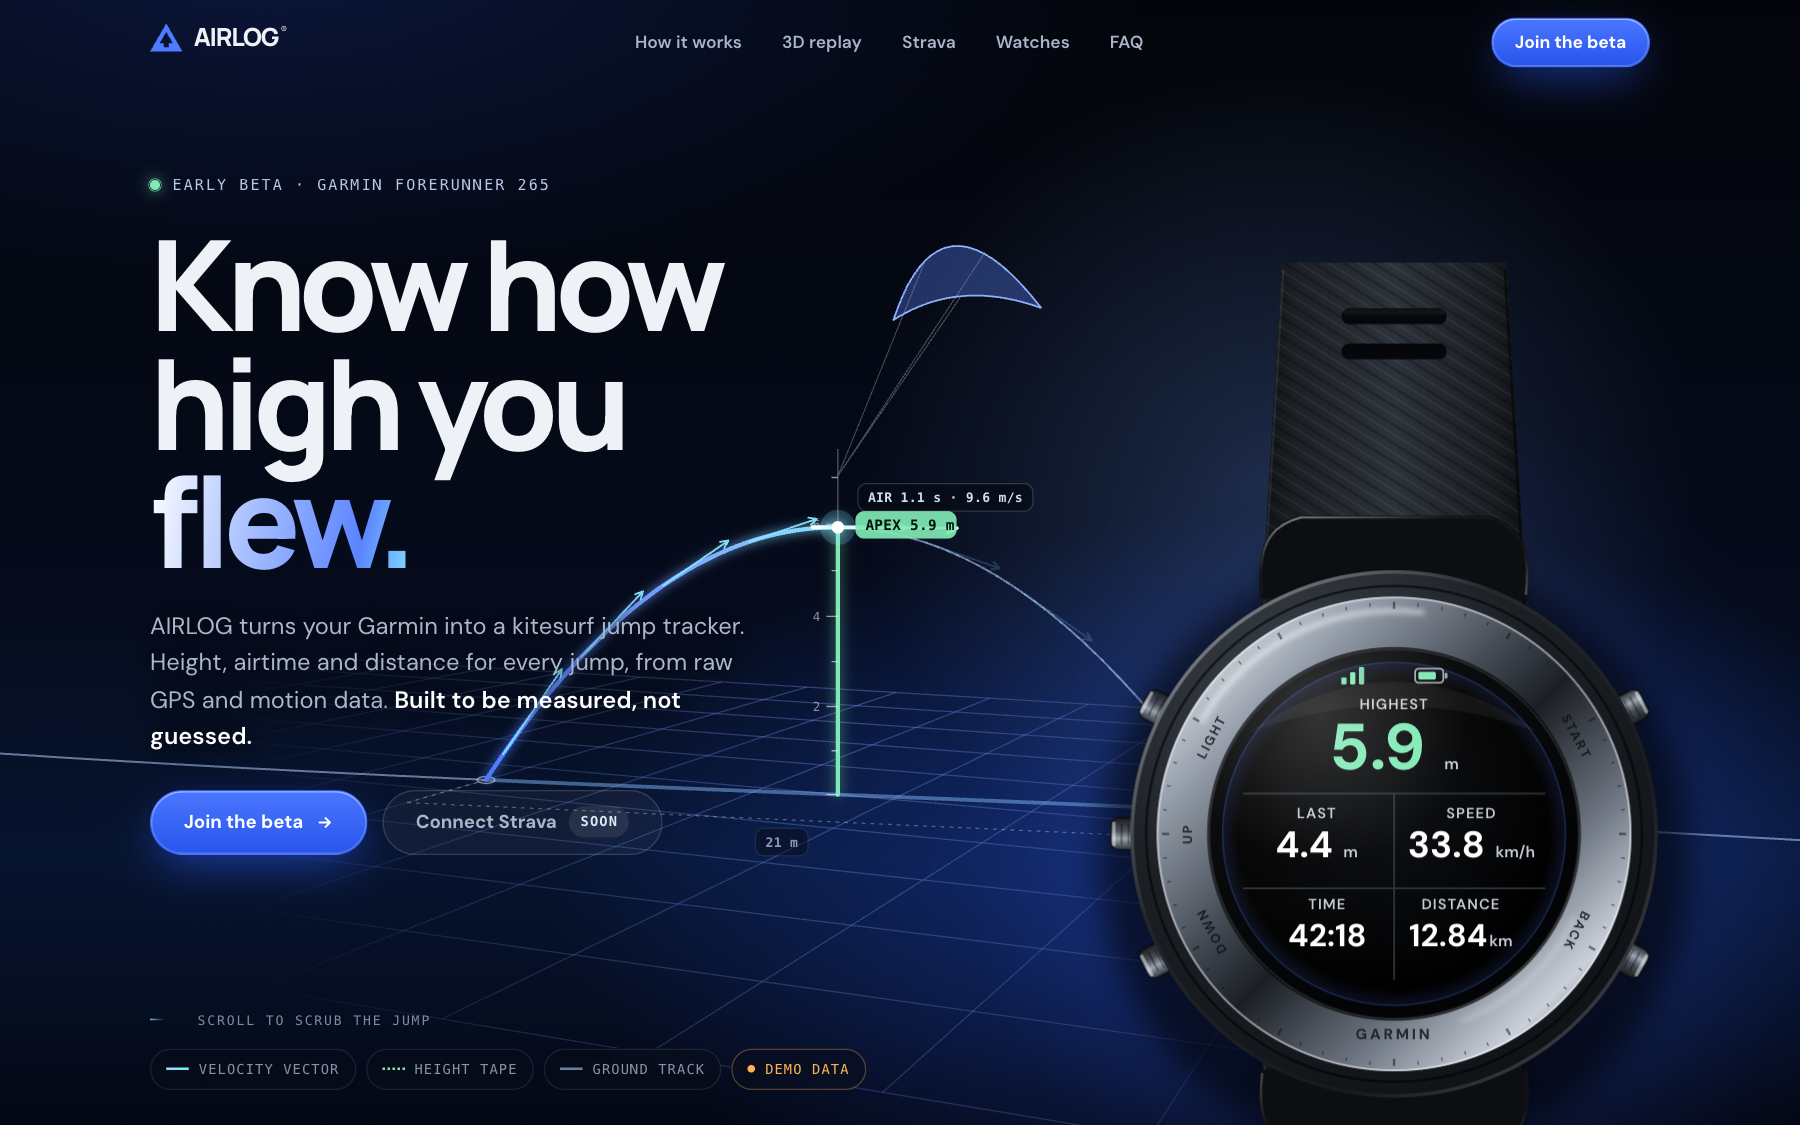
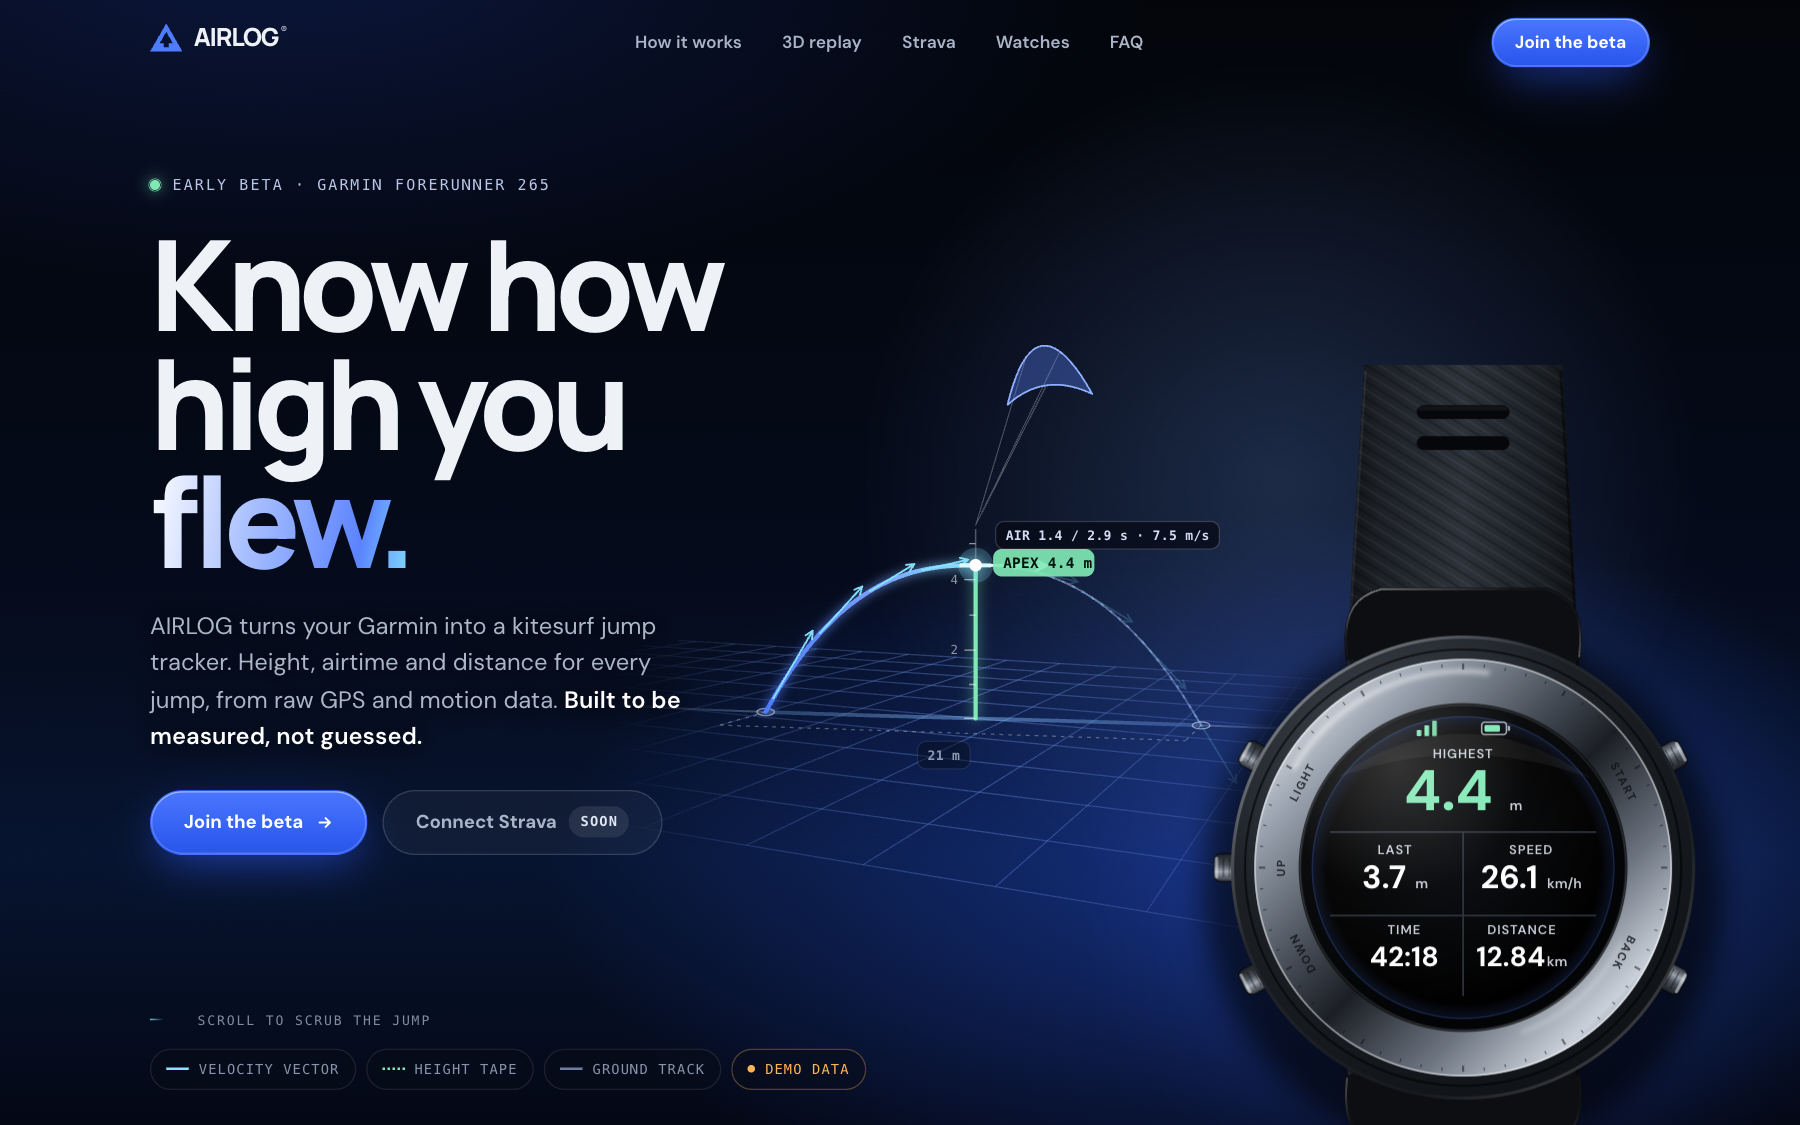
Trademark, consistent demo data, hero layout, honest FAQ, og.jpg

Changed region(s): [[0.0622, 0.2178, 0.9644, 1.0], [0.4978, 0.2178, 0.5911, 0.28], [0.56, 0.3111, 0.6222, 0.3733]]

diff --git a/src/scripts/jump-scene.ts b/src/scripts/jump-scene.ts
@@ -6,13 +6,14 @@
  *  - kamera: yaw/pitch + perspektywa, siatka wody, ślad na wodzie, łuk (duch + podświetlony),
  *  - wektory prędkości wzdłuż łuku, linka miernicza (taśma) z wysokością, latawiec w 3D,
  *  - render tylko gdy „brudny” i aktywny (IntersectionObserver po stronie wywołującego).
- * Dane to demo: T = 2.2 s, vx = 9.4 m/s → apex ≈ 5.9 m, dystans ≈ 21 m.
+ * Dane to demo (jedna sesja): AIR 2.9 s, apex 4.4 m, dystans 21 m. Skok kitesurfingowy NIE jest balistyczny
+ * (latawiec nosi), więc profil to spłaszczona „czapa”: h(t) = H·(1 − |1 − 2t/T|^k), k = 2.4;
+ * przyspieszenie pionowe liczone analitycznie z tego profilu.
  */
 
-export const G = 9.81;
-export const JUMP = { T: 2.2, vx: 9.4, zAmp: 7 };
-export const APEX_H = (G * JUMP.T * JUMP.T) / 8;
-export const DIST = JUMP.vx * JUMP.T;
+export const APEX_H = 4.4;
+export const DIST = 21;
+export const JUMP = { T: 2.9, vx: DIST / 2.9, zAmp: 7, k: 2.4 };
 
 const NS = 'http://www.w3.org/2000/svg';
 const T0 = -1.9; // początek podejścia (s)
@@ -45,16 +46,24 @@ export interface SceneOptions {
   onFrame?: (f: Frame) => void;
 }
 
+const inAir = (t: number) => t >= 0 && t <= JUMP.T;
 const pos = (t: number): V3 => {
-  const { T, vx, zAmp } = JUMP;
-  const y = t >= 0 && t <= T ? (G * t * (T - t)) / 2 : 0;
+  const { T, vx, zAmp, k } = JUMP;
+  const y = inAir(t) ? APEX_H * (1 - Math.pow(Math.abs(1 - (2 * t) / T), k)) : 0;
   return [vx * t, y, -zAmp * Math.tanh((t - T / 2) * 0.3)];
 };
 const vel = (t: number): V3 => {
-  const { T, vx, zAmp } = JUMP;
-  const vy = t >= 0 && t <= T ? G * (T / 2 - t) : 0;
+  const { T, vx, zAmp, k } = JUMP;
+  const x = 1 - (2 * t) / T;
+  const vy = inAir(t) ? ((APEX_H * 2 * k) / T) * Math.pow(Math.abs(x), k - 1) * Math.sign(x) : 0;
   const c = Math.cosh((t - T / 2) * 0.3);
   return [vx, vy, (-zAmp * 0.3) / (c * c)];
+};
+/** przyspieszenie pionowe (m/s²) z profilu wysokości */
+const accY = (t: number): number => {
+  const { T, k } = JUMP;
+  if (!inAir(t)) return 0;
+  return -((APEX_H * 4 * k * (k - 1)) / (T * T)) * Math.pow(Math.abs(1 - (2 * t) / T), k - 2);
 };
 
 const f1 = (n: number) => (Math.round(n * 10) / 10).toString();
@@ -80,6 +89,8 @@ export interface SceneState {
 
 export interface JumpScene {
   resize(): void;
+  /** przelicza dopasowanie (np. po załadowaniu fontów zmieniających układ tekstu) */
+  refit(): void;
   render(): void;
   set(next: Partial<SceneState>): void;
   get(): SceneState;
@@ -88,7 +99,7 @@ export interface JumpScene {
 
 export function createJumpScene(opts: SceneOptions): JumpScene {
   const { svg } = opts;
-  const yExag = opts.yExag ?? 1.25;
+  const yExag = opts.yExag ?? 1.7;
   const D = 46; // odległość kamery (m) – im mniej, tym mocniejsza perspektywa
   const cx0 = (JUMP.vx * JUMP.T) / 2;
 
@@ -120,8 +131,8 @@ export function createJumpScene(opts: SceneOptions): JumpScene {
   const gGrid = mk('g', { class: 'js-grid', mask: `url(#${uid}-mask)` }, svg);
   const gridX = mk('path', { class: 'js-gridline' }, gGrid);
   const gridZ = mk('path', { class: 'js-gridline' }, gGrid);
-  const wake = mk('path', { class: 'js-wake', pathLength: 1 }, svg);
-  const wakeAir = mk('path', { class: 'js-wake-air' }, svg);
+  const wake = mk('path', { class: 'js-wake', pathLength: 1 }, gGrid);
+  const wakeAir = mk('path', { class: 'js-wake-air' }, gGrid);
   const gMarks = mk('g', { class: 'js-marks' }, svg);
   const takeoffRing = mk('ellipse', { class: 'js-ring' }, gMarks);
   const landRing = mk('ellipse', { class: 'js-ring' }, gMarks);
@@ -153,7 +164,7 @@ export function createJumpScene(opts: SceneOptions): JumpScene {
   const tapeBase = mk('path', { class: 'js-tape-base' }, gTape);
   const tapeFill = mk('path', { class: 'js-tape-fill' }, gTape);
   const tapeTicks = mk('path', { class: 'js-tape-ticks' }, gTape);
-  const tapeNums: SVGTextElement[] = [2, 4, 6].map(() => mk('text', { class: 'js-tape-num' }, gTape));
+  const tapeNums: SVGTextElement[] = [2, 4].map(() => mk('text', { class: 'js-tape-num' }, gTape));
   const peak = mk('path', { class: 'js-peak' }, gTape);
   const gauge = mk('path', { class: 'js-gauge' }, gTape);
 
@@ -273,7 +284,7 @@ export function createJumpScene(opts: SceneOptions): JumpScene {
   for (let i = 0; i <= 120; i++) wakePts.push(pos(T0 + ((T1 - T0) * i) / 120));
   const wakeAirPts: V3[] = airPts.map((p) => [p[0], 0, p[2]] as V3);
   const vecT = Array.from({ length: vecs.length }, (_, i) => 0.06 + (JUMP.T - 0.12) * (i / (vecs.length - 1)));
-  const tapeTop = 7.6;
+  const tapeTop = 5.4;
 
   const render = () => {
     raf = 0;
@@ -318,7 +329,7 @@ export function createJumpScene(opts: SceneOptions): JumpScene {
       const lit = t >= ti - 0.02;
       const pi = pos(ti);
       const vi = vel(ti);
-      vecs[i].setAttribute('d', arrow(pi, add(pi, vi, 0.2)));
+      vecs[i].setAttribute('d', arrow(pi, add(pi, vi, 0.3)));
       vecs[i].classList.toggle('is-lit', lit);
     }
 
@@ -328,17 +339,20 @@ export function createJumpScene(opts: SceneOptions): JumpScene {
     dot.setAttribute('cy', py.toFixed(1));
     halo.setAttribute('cx', px.toFixed(1));
     halo.setAttribute('cy', py.toFixed(1));
-    live.setAttribute('d', arrow(p, add(p, v, 0.34), 9));
+    live.setAttribute('d', arrow(p, add(p, v, 0.45), 9));
     // deska: odcinek 1.3 m wzdłuż wektora prędkości
     const vn = Math.hypot(v[0], v[1], v[2]) || 1;
     const bdir: V3 = [(v[0] / vn) * 0.7, (v[1] / vn) * 0.7, (v[2] / vn) * 0.7];
     board.setAttribute('d', path([add(p, bdir, -1), add(p, bdir, 1)]));
     if (accel) {
-      const [ax, ay] = P(add(p, [0, -G * 0.3, 0]));
-      accel.setAttribute('d', arrow(p, add(p, [0, -G * 0.3, 0]), 8));
-      setLabel('acc', 'a −9.81 m/s²', ax + 10, ay + 4);
-      accel.style.opacity = t > 0 && t < T ? '1' : '0';
-      labels.acc.style.opacity = t > 0 && t < T ? '1' : '0';
+      const a = accY(t);
+      const tip = add(p, [0, a * 0.4, 0]);
+      const [ax, ay] = P(tip);
+      accel.setAttribute('d', arrow(p, tip, 8));
+      setLabel('acc', `a ${a.toFixed(1).replace('-', '−')} m/s²`, ax + 10, ay + 4);
+      const showA = t > 0 && t < T && Math.abs(a) > 0.5 ? '1' : '0';
+      accel.style.opacity = showA;
+      labels.acc.style.opacity = showA;
     }
 
     /* taśma mierznicza (przy apexie) */
@@ -348,7 +362,7 @@ export function createJumpScene(opts: SceneOptions): JumpScene {
     const hh = Math.min(h, tapeTop);
     tapeFill.setAttribute('d', path([foot, [cx0, hh, 0]]));
     let ticks = '';
-    for (let m = 0; m <= 7; m++) {
+    for (let m = 0; m <= 5; m++) {
       const a = P([cx0, m, 0]);
       const len = m % 2 === 0 ? 9 : 5;
       ticks += `M${a[0].toFixed(1)} ${a[1].toFixed(1)}h${-len}`;
@@ -373,8 +387,8 @@ export function createJumpScene(opts: SceneOptions): JumpScene {
     setLabel('h', `${atApex ? 'APEX ' : ''}${f1(h)} m`, gp[0] + 14, gp[1] + (atApex ? -2 : 0));
     labels.h.classList.toggle('is-apex', atApex);
     const air = Math.min(Math.max(t, 0), T);
-    if (W < 600) setLabel('read', `AIR ${air.toFixed(1)} s`, px - 14, py - 26, 'end');
-    else setLabel('read', `AIR ${air.toFixed(1)} s · ${f1(vn)} m/s`, px + 16, py - 24);
+    if (W < 600) setLabel('read', `AIR ${air.toFixed(1)} / ${T.toFixed(1)} s`, px - 14, py - 26, 'end');
+    else setLabel('read', `AIR ${air.toFixed(1)} / ${T.toFixed(1)} s · ${f1(vn)} m/s`, px + 16, py - 24);
     labels.read.style.opacity = '1';
 
     if (opts.annotate) {
@@ -436,6 +450,9 @@ export function createJumpScene(opts: SceneOptions): JumpScene {
     svg.setAttribute('viewBox', `0 0 ${W} ${H}`);
     mrect.setAttribute('width', String(W));
     mrect.setAttribute('height', String(H));
+    layout();
+  };
+  const layout = () => {
     const rect = opts.fit(W, H);
     mrect.setAttribute('x', String(rect.x0 - (rect.x1 - rect.x0) * 0.35));
     mrect.setAttribute('width', String((rect.x1 - rect.x0) * 1.7));
@@ -449,6 +466,7 @@ export function createJumpScene(opts: SceneOptions): JumpScene {
 
   return {
     resize,
+    refit: layout,
     render: () => {
       resize();
       render();

diff --git a/src/scripts/hero.ts b/src/scripts/hero.ts
@@ -25,7 +25,7 @@ function init(hero: HTMLElement, svg: SVGSVGElement, watch: SVGSVGElement) {
   const lastEl = last?.closest('text');
   let lastShown = '';
   let landedPrev = false;
-  const PREV_LAST = '4.4';
+  const PREV_LAST = '3.7';
   if (speed) speed.textContent = (JUMP.vx * 3.6).toFixed(1);
 
   const setText = (el: SVGTSpanElement | null, s: string) => {
@@ -54,10 +54,22 @@ function init(hero: HTMLElement, svg: SVGSVGElement, watch: SVGSVGElement) {
     kite: true,
     annotate: true,
     onFrame,
-    fit: (w, h) =>
-      w >= 900
-        ? { x0: w * 0.27, x1: w * 0.68, y0: h * 0.2, y1: h * 0.8 }
-        : { x0: w * 0.03, x1: w * 0.62, y0: h * 0.5, y1: h * 0.75 },
+    fit: (w, h) => {
+      const wrap = hero.querySelector<HTMLElement>('.hero-watch-wrap');
+      // lewa krawędź obudowy zegarka (12.5 % szerokości SVG) / lewa krawędź paska (32.5 %)
+      const caseLeft = wrap ? wrap.offsetLeft + wrap.offsetWidth * 0.125 : w * 0.68;
+      const strapLeft = wrap ? wrap.offsetLeft + wrap.offsetWidth * 0.325 : w * 0.64;
+      if (w >= 900) {
+        // łuk zaczyna się na prawo od kolumny tekstu (nagłówek, lede, przyciski) i kończy przed obudową
+        let right = 0;
+        for (const el of hero.querySelectorAll<HTMLElement>('.hero-title .hl, .hero-copy .lede, .hero-copy .cta-row > *')) {
+          right = Math.max(right, el.getBoundingClientRect().right);
+        }
+        const x0 = right + 36;
+        return { x0, x1: Math.max(x0 + 300, caseLeft - 24), y0: h * 0.2, y1: h * 0.8 };
+      }
+      return { x0: w * 0.03, x1: Math.max(w * 0.4, strapLeft - 26), y0: h * 0.545, y1: h * 0.77 };
+    },
   });
 
   const scrollRange = () => Math.max(1, hero.offsetHeight - innerHeight);
@@ -78,7 +90,7 @@ function init(hero: HTMLElement, svg: SVGSVGElement, watch: SVGSVGElement) {
     const target = T / 2 + s * (T / 2);
     scene.set({
       t: Math.max(0.0001, e * target),
-      yaw: YAW0 + (1 - e) * -0.36 + s * (innerWidth < 900 ? 0.3 : SCROLL_YAW),
+      yaw: YAW0 + (1 - e) * -0.36 + s * (innerWidth < 900 ? 0.2 : SCROLL_YAW),
       ox,
       oy,
     });
@@ -171,7 +183,11 @@ function init(hero: HTMLElement, svg: SVGSVGElement, watch: SVGSVGElement) {
     }).observe(hero);
   }
 
-  const start = () => requestAnimationFrame(() => begin());
+  const start = () =>
+    requestAnimationFrame(() => {
+      scene.refit();
+      begin();
+    });
   if (document.fonts?.ready) document.fonts.ready.then(start);
   else start();
 }

diff --git a/src/scripts/story.ts b/src/scripts/story.ts
@@ -16,9 +16,9 @@ const BEATS: Beat[] = [
   { at: 13.2, scene: 'saved' },
 ];
 const JUMPS = [
-  { at: 8, v: 3.1 },
-  { at: 10.3, v: 4.4 },
-  { at: 12.2, v: 5.9 },
+  { at: 8, v: 2.6 },
+  { at: 10.3, v: 3.7 },
+  { at: 12.2, v: 4.4 },
 ];
 
 const mmss = (sec: number) => {
@@ -50,8 +50,8 @@ for (const svg of document.querySelectorAll<SVGSVGElement>('svg.watch[data-scene
 
   if (reduced) {
     show('rec');
-    set(fields.last, '5.9');
-    set(fields.highest, '5.9');
+    set(fields.last, '4.4');
+    set(fields.highest, '4.4');
     continue;
   }
 
@@ -80,7 +80,7 @@ for (const svg of document.querySelectorAll<SVGSVGElement>('svg.watch[data-scene
       const u = (t - 5.6) / (13.2 - 5.6);
       set(fields.time, mmss(12 * 60 + 41 + u * (42 * 60 + 18 - 12 * 60 - 41)));
       set(fields.dist, (3.12 + u * (12.84 - 3.12)).toFixed(2));
-      set(fields.speed, (24.6 + Math.sin(t * 1.7) * 6 + Math.sin(t * 0.6) * 3).toFixed(1));
+      set(fields.speed, (27 + Math.sin(t * 1.7) * 5 + Math.sin(t * 0.6) * 3).toFixed(1));
       let last = '--';
       let high = 0;
       for (const j of JUMPS) {

diff --git a/src/styles/global.css b/src/styles/global.css
@@ -517,7 +517,7 @@ h3 {
   width: fit-content;
 }
 .lede {
-  max-width: 480px;
+  max-width: 440px;
   text-shadow: 0 0 14px #03050a, 0 0 28px #03050a;
   font-size: clamp(16px, 1.45vw, 19px);
   color: #aeb8cb;
@@ -532,9 +532,9 @@ h3 {
 }
 .hero-watch-wrap {
   position: absolute;
-  right: clamp(8px, 3vw, 80px);
-  bottom: -25svh;
-  height: min(100svh, 980px);
+  right: clamp(8px, 1.5vw, 40px);
+  bottom: -22svh;
+  height: min(88svh, 800px);
   aspect-ratio: 400 / 640;
   pointer-events: none;
   transform-origin: 50% 65%;
@@ -775,7 +775,8 @@ h3 {
   }
     .hero-watch-wrap {
     right: -15vw;
-    bottom: -13svh;
+    bottom: -16svh;
+    transform: translateY(calc(var(--s, 0) * -2svh)) scale(calc(1 + var(--s, 0) * 0.03));
     height: min(56svh, 520px);
   }
   .hero-sun {
@@ -1222,4 +1223,10 @@ h3 {
 
 .hero .js-takeoff {
   display: none;
+}
+
+@media (min-width: 900px) and (max-height: 780px) {
+  .scroll-hint {
+    display: none;
+  }
 }

diff --git a/src/styles/sections.css b/src/styles/sections.css
@@ -655,6 +655,7 @@
 }
 .phone-stage {
   position: relative;
+  padding-top: 40px;
   display: grid;
   place-items: center;
   min-height: 640px;
@@ -881,8 +882,8 @@
 }
 .phone-callout {
   position: absolute;
-  right: 0;
-  bottom: 26%;
+  left: calc(50% + 150px);
+  bottom: 40%;
   display: none;
   align-items: center;
   gap: 10px;
@@ -914,14 +915,9 @@
   background: var(--blue-hi);
   box-shadow: 0 0 12px var(--blue-hi);
 }
-@media (min-width: 720px) {
+@media (min-width: 1400px) {
   .phone-callout {
     display: flex;
-  }
-}
-@media (min-width: 960px) {
-  .phone-callout {
-    right: -10px;
   }
 }
 
@@ -1533,4 +1529,12 @@
 }
 .footer-legal p:last-child {
   max-width: 860px;
+}
+
+.phone-chip {
+  position: absolute;
+  top: 0;
+  left: 50%;
+  translate: -50% 0;
+  z-index: 2;
 }

diff --git a/README.md b/README.md
@@ -32,7 +32,7 @@ npm run preview    # serves dist/ under /airlog/
 
 - **Confirm the beta contact address.** `mailto:hello@airlog.app?subject=AIRLOG%20beta` is a placeholder used in
   `Header.astro`, `Hero.astro`, `Watches.astro`, `Footer.astro`. It must be replaced with a real, monitored address.
-- All numbers on the page (5.9 m, 2.2 s, 21 m, session stats, profile) are **demo data** and are labelled as such.
+- All numbers on the page (one demo session: highest jump 4.4 m, AIR 2.9 s, distance 21 m, 12 jumps, average speed while moving 27 km/h) are **demo data** and are labelled as such.
   No accuracy numbers, user counts, ratings or partner logos are claimed (height accuracy is still being validated).
-- `public/og.png` is a screenshot of the hero; regenerate it if the hero changes.
-- Strava is shown as “coming soon” (not a working button) and uses no Strava logo.
+- `public/og.jpg` (<200 KB) is a screenshot of the hero; regenerate it if the hero changes.
+- Watch → AIRLOG sync and the Strava connection are not built yet; the site says so (FAQ, Strava section). Strava is shown as “coming soon” (not a working button) and uses no Strava logo.
